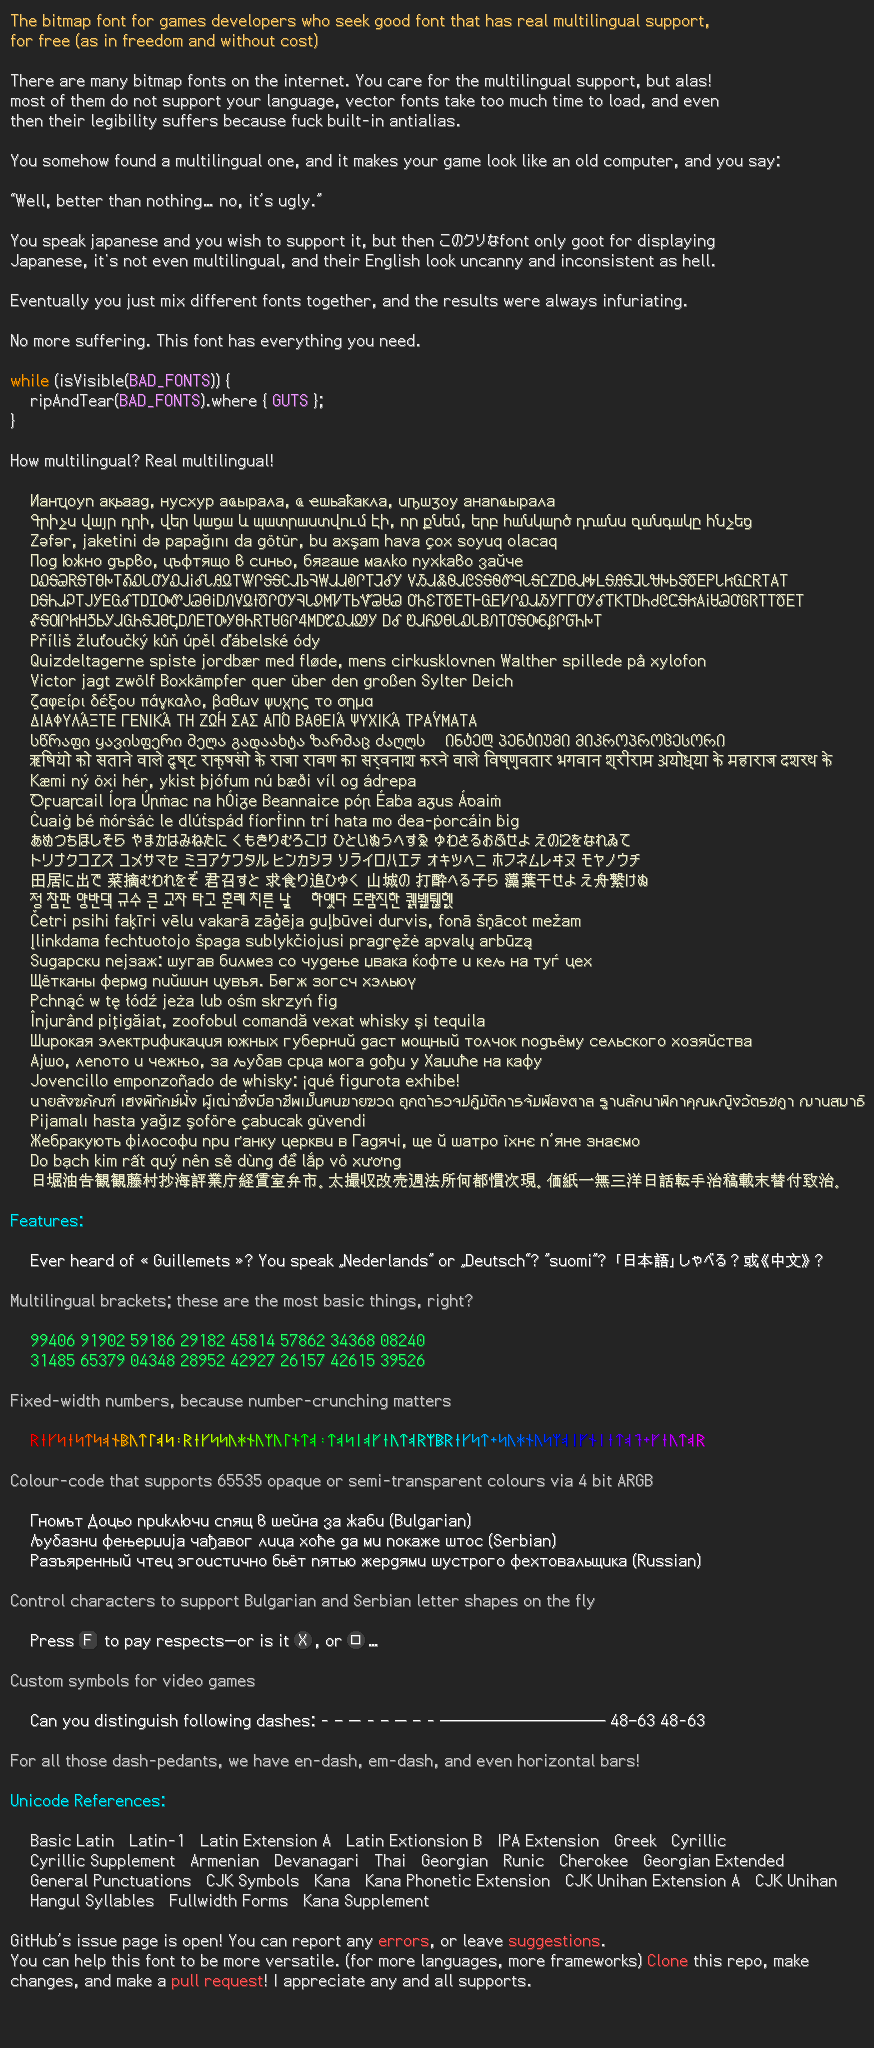
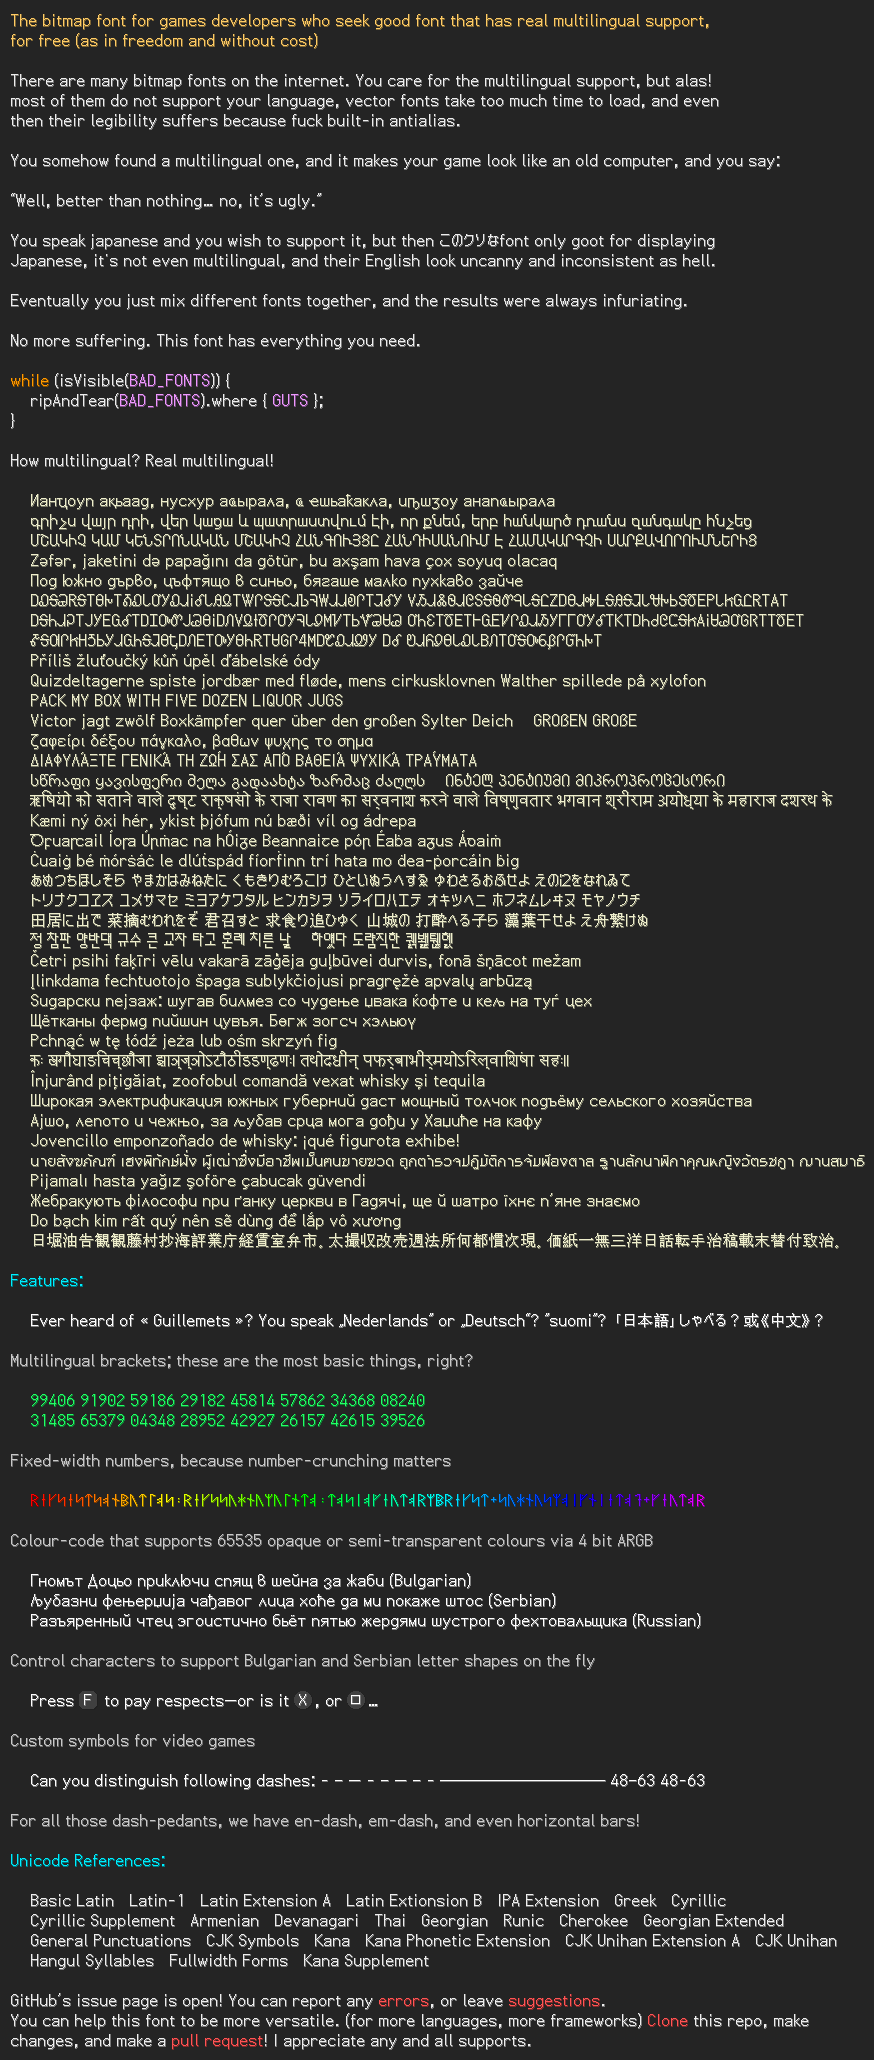
more demotexts (more caps, sanskrit)
about to make substantial changes

diff --git a/FontTestGDX/src/FontTestGDX.kt b/FontTestGDX/src/FontTestGDX.kt
@@ -251,7 +251,7 @@ class FontTestGDX : Game() {
 
 lateinit var appConfig: LwjglApplicationConfiguration
 const val TEXW = 874
-const val TEXH = 2048
+const val TEXH = 2060
 
 fun main(args: Array<String>) {
     appConfig = LwjglApplicationConfiguration()
